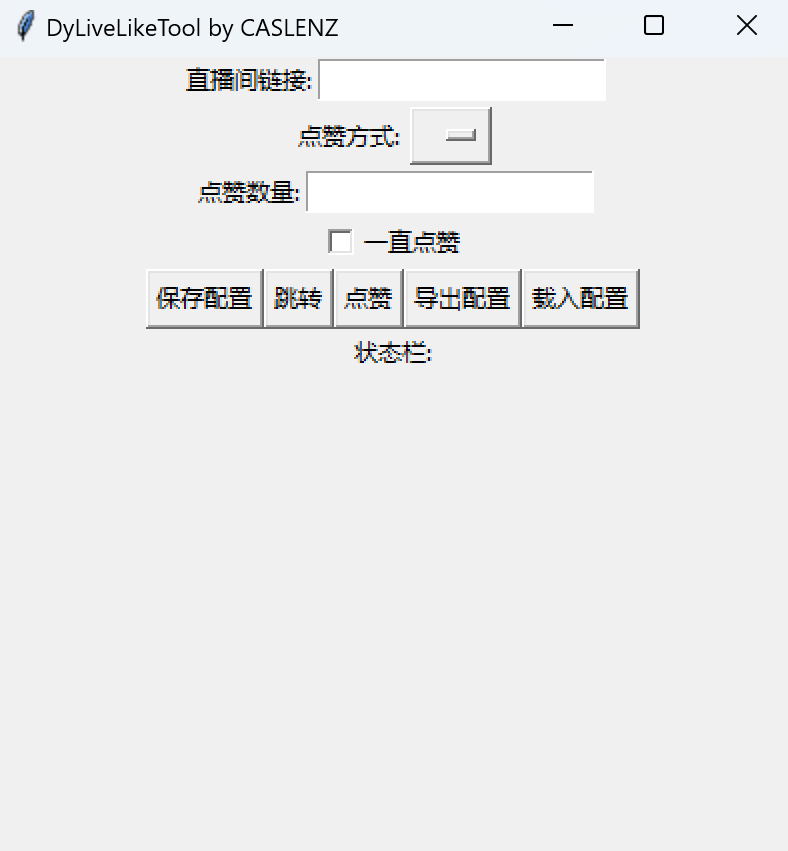
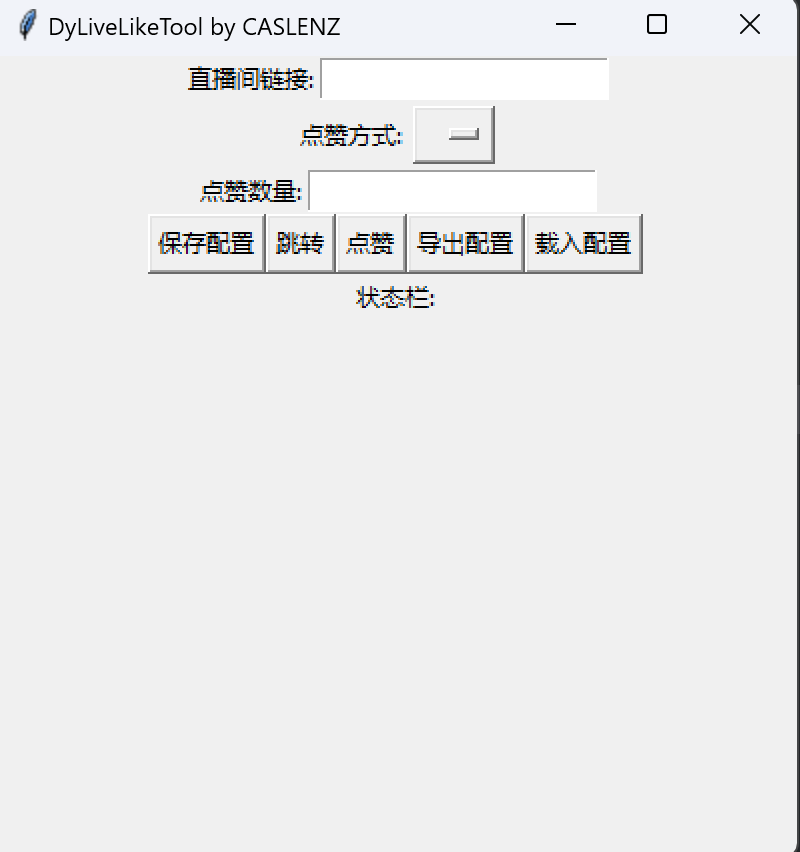
Update V1.0.1
1. Remove the "一直点赞" feature
2. Present all error codes as the reason for the error, making it easier for users to troubleshoot
3. Optimize the program.

diff --git a/DyLiveLikeTool.py b/DyLiveLikeTool.py
@@ -39,11 +39,6 @@ class DyLiveLikeTool:
         self.like_count_entry.pack(side=tk.LEFT)
         self.like_count_frame.pack()
 
-        # 一直点赞选项
-        self.continuous_like_var = tk.BooleanVar()
-        self.continuous_like_checkbox = tk.Checkbutton(self.root, text="一直点赞", variable=self.continuous_like_var, command=self.toggle_like_count_entry_state)
-        self.continuous_like_checkbox.pack()
-
         # 保存配置、跳转、点赞、导出配置、载入配置按钮在同一行
         self.button_frame = tk.Frame(self.root)
         self.save_config_button = tk.Button(self.button_frame, text="保存配置", command=self.save_config)
@@ -71,30 +66,23 @@ class DyLiveLikeTool:
 
         self.previous_mouse_position = None  # 用于记录上一次的鼠标位置
 
-    def toggle_like_count_entry_state(self):
-        if self.continuous_like_var.get():
-            self.like_count_entry.config(state='disabled')
-        else:
-            self.like_count_entry.config(state='normal')
-
     def save_config(self):
         link = self.link_entry.get()
-        if not (link.startswith("https://live.douyin.com/") or link.startswith("live.douyin.com")):
-            self.status_text.set("401 错误")
+        if not (link.startswith("https://live.douyin.com") or link.startswith("live.douyin.com") or link.startswith("HTTPS://LIVE.DOUYIN.COM") or link.startswith("LIVE.DOUYIN.COM")):
+            self.status_text.set("直播间链接格式不准确。")
             return
         try:
             count = int(self.like_count_entry.get())
             if count < 10 or count > 3000:
-                self.status_text.set("402 错误")
+                self.status_text.set("点赞数量应在 10~3000 之间。")
                 return
         except ValueError:
-            self.status_text.set("403 错误")
+            self.status_text.set("点赞数量应该是整数。")
             return
         self.status_text.set(f'''保存配置成功
         链接 - {link}
         点赞方式 - {self.like_method_var.get()}
-        点赞数量 - {count}
-        一直点赞 - {self.continuous_like_var.get()}''')
+        点赞数量 - {count}''')
 
     def jump(self):
         link = self.link_entry.get()
@@ -105,6 +93,9 @@ class DyLiveLikeTool:
             self.status_text.set("网页加载失败")
 
     def start_like(self):
+        if not self.check_saved_config():  # 检查是否保存了配置
+            messagebox.showwarning("提示", "请先保存配置！")
+            return
         self.link_entry.config(state='disabled')
         self.like_count_entry.config(state='disabled')
         self.like()
@@ -155,11 +146,20 @@ class DyLiveLikeTool:
         self.link_entry.config(state='normal')
         self.like_count_entry.config(state='normal')
 
+    def check_saved_config(self):
+        link = self.link_entry.get()
+        if not link:
+            return False
+        try:
+            int(self.like_count_entry.get())
+        except ValueError:
+            return False
+        return True
+
     def export_config(self):
         link = self.link_entry.get()
         method = self.like_method_var.get()
         count = self.like_count_entry.get()
-        still_like = self.continuous_like_var.get()
 
         live_name = tk.simpledialog.askstring("直播间名字", "请输入直播间名字:")
         if not live_name:
@@ -173,7 +173,7 @@ class DyLiveLikeTool:
 
         file_name = f"Config/{live_name}-{current_time}.czad"
         with open(file_name, 'w') as f:
-            f.write(f"Link\n{link}\nMethod\n{method}\nCount\n{count}\nStillLike\n{still_like}")
+            f.write(f"Link\n{link}\nMethod\n{method}\nCount\n{count}")
         self.status_text.set("保存成功")
 
     def load_config(self):
@@ -187,14 +187,12 @@ class DyLiveLikeTool:
             link = lines[1].strip()
             method = lines[3].strip()
             count = lines[5].strip()
-            still_like = lines[7].strip()
 
         self.link_entry.delete(0, tk.END)
         self.link_entry.insert(0, link)
         self.like_method_var.set(method)
         self.like_count_entry.delete(0, tk.END)
         self.like_count_entry.insert(0, count)
-        self.continuous_like_var.set(still_like == 'True')
 
         self.status_text.set("载入成功")
 

diff --git a/README.md b/README.md
@@ -1,6 +1,4 @@
-# DyLiveLikeTool  
-
-## 请注意：DyLiveLikeTool V1.0.0 版本目前出现 “一直点赞” 功能无法执行，正在排查并解决问题。2024年7月23日。  
+# DyLiveLikeTool
 
 <p align="center" class="shields">
   <a href="https://github.com/CaslenZ/DyLiveLikeTool/issues" style="text-decoration:none">
@@ -19,7 +17,7 @@
 </p>
 
 
-### 目录：[程序界面](#AppPage)、[依赖库](#DependentLibrary)、[使用方法](#Usage)、[注意事项](#Precautions)、[报错代码查询](#ErrorCodeQuery)、[免责声明](#Disclaimer)、[更新说明](#UpdateInstructions)、[许可证](#Licence)、[联系开发者](#ContactDeveloper)
+### 目录：[程序界面](#AppPage)、[依赖库](#DependentLibrary)、[使用方法](#Usage)、[注意事项](#Precautions)、[免责声明](#Disclaimer)、[更新说明](#UpdateInstructions)、[许可证](#Licence)、[联系开发者](#ContactDeveloper)
 
 ---
 <a id="AppPage"></a>
@@ -46,9 +44,8 @@
 3. 选择点赞方式
     - 鼠标左键：即使用鼠标左键进行点赞；
     - 键盘 Z 键：即使用键盘 Z 键进行点赞。键盘 Z 键是抖音直播间点赞快捷键；
-4. 输入点赞数量（数值应在 10-3000 之间）或选择一直点赞  
+4. 输入点赞数量（数值应在 10-3000 之间）  
     - 一段时间内，一个抖音账号只能连续点赞 3000 次，到 3-5 分钟左右可再次点赞。每个账号允许累计最大点赞数在 6000-9000 之间。
-    - “一直点赞” 需要用户先在 “点赞数量” 中输入 “10” 以确认打开一直点赞功能。
 5. 点击 “保存配置” 
 6. 点击 “跳转” ，程序会自动打开默认浏览器并跳转到指定直播间
 7. 点击 “点赞” ，程序会弹出提示窗口，然后在指定秒数内开始点赞
@@ -58,9 +55,9 @@
 8. 状态栏会显示任何报错、提示等，请留意观察
     - 报错代码查询请移步 [报错代码查询](#ErrorCodeQuery) 。
 9. 如果用户有经常需要自动化点赞的直播间，用户可以点击 “导出配置” 按钮，将配置固定保存在用户的电脑中
-    - 将直播间链接、点赞方式、点赞数量、一直点赞开关都填写、选择完整；
+    - 将直播间链接、点赞方式、点赞数量都填写、选择完整；
     - 点击 “导出配置” 按钮，程序会弹出窗口要求用户输入直播间名字，以便辨认配置适用对象；
-    - 填写完毕后，点击 “OK” ，程序会自动将配置文件保存在 ` 程序目录\dist\Config` 文件夹中，名称为 “直播间名字-月-日-时-分-秒.czad” ，用户可以将其移动、复制、删除，不建议用户手动修改文件内容。
+    - 填写完毕后，点击 “OK” ，程序会自动将配置文件保存在 ` 程序目录\dist\Config` 文件夹中，名称为 “直播间名字-月-日-时-分-秒.czad” ，用户可以将其移动、复制、删除，不建议用户手动修改文件内容。（若您是运行 Py 文件来运行程序，导出的数据将保存在 ` 程序目录\Config` 文件夹中。）  
 10. 当用户保存了配置文件后，用户可以点击 “载入配置” 载入这些配置
     - 点击 “载入配置” 后，程序会唤出系统窗口要求用户选择 .czad 文件，选择后点击 “完成” 即可载入。
 
@@ -70,24 +67,14 @@
 ## 注意事项
 ### 1. 直播间链接必须以 `https://live.douyin.com` 或 `live.douyin.com` 开头；
 ### 2. 点赞数量必须在 10~3000 范围内；
-### 3. “一直点赞” 需要用户先在 “点赞数量” 中输入 “10” 以确认打开一直点赞功能；
-### 4. 点击 “点赞” 后，程序会根据不同点赞方式弹出不同提示窗口，请注意观看提示；
-### 5. 提示观看完毕后，应迅速将弹窗关闭，然后在直播间窗口试点一次，防止程序执行动作后点赞无效（选择 “键盘 Z 键” 点赞， ****必须**** 执行此动作，否则点赞 ***必然*** 无效。）；
-### 6. 程序在执行点赞动作时，会偶现程序无响应，这是正常现象，不影响点赞动作。在点赞完毕或用户主动中断点赞后会恢复正常；
-### 7. 为方便用户在点赞过程中出现失误可以及时中断，当鼠标大幅度移动时点赞会自动停止，重新点击 “点赞” 按钮即可；
-### 8. 若程序重复出现鼠标大幅度移动提示，请重启程序；
-### 9. 每次修改任意参数都 ****必须**** 点击 “保存配置” 再执行点赞动作，否则修改的参数 **无效** ；
-### 10. “保存配置” 只会暂时将配置保存在程序当中，程序一旦关闭配置将永久删除。因此，如果用户要长期使用，建议用户 “导出配置” 。
-
----
-<a id="ErrorCodeQuery"></a>
----
-## 报错代码查询
-| 代码       | 原因           | 解决方法                                                       |
-|----------|--------------|------------------------------------------------------------|
-| 401      | 输入的直播间链接格式错误 | 直播间链接必须以 `https://live.douyin.com` 或 `live.douyin.com` 开头； |
-| 402      | 点赞数量超出限定范围   | 点赞数量范围为 10~3000 ，选择一直点赞需要在 “点赞数量” 中填入 10 ；                 |
-| 403      | 点赞数量格式错误     | 输入的点赞数量应为整数，且是计算机字符格式阿拉伯数字，不可输入中文、emoji等。                  |
+### 3. 点击 “点赞” 后，程序会根据不同点赞方式弹出不同提示窗口，请注意观看提示；
+### 4. 提示观看完毕后，应迅速将弹窗关闭，然后在直播间窗口试点一次，防止程序执行动作后点赞无效（选择 “键盘 Z 键” 点赞， ****必须**** 执行此动作，否则点赞 ***必然*** 无效。）；
+### 5. 程序在执行点赞动作时，会偶现程序无响应，这是正常现象，不影响点赞动作。在点赞完毕或用户主动中断点赞后会恢复正常；
+### 6. 为方便用户在点赞过程中出现失误可以及时中断，当鼠标大幅度移动时点赞会自动停止，重新点击 “点赞” 按钮即可；
+### 7. 若程序重复出现鼠标大幅度移动提示，请重启程序；
+### 8. 每次修改任意参数都 ****必须**** 点击 “保存配置” 再执行点赞动作，否则修改的参数 **无效** ；
+### 9. “保存配置” 只会暂时将配置保存在程序当中，程序一旦关闭配置将永久删除。因此，如果用户要长期使用，建议用户 “导出配置” ；
+### #1. “一直点赞” 功能因无实际作用已被删除，用户可以手动输入单次点赞上限值 3000 到 “点赞数量” 中以实现点赞最多。
 
 ---
 <a id="Disclaimer"></a>
@@ -108,9 +95,10 @@
 <a id="UpdateInstructions"></a>
 ---
 ## 更新说明
-| 版本号     | 发布类型    | 发布日期         | 内容   | 鸣谢 |
-|---------|---------|--------------|------|----|
-| V 1.0.0 | RELEASE | 　2024年7月21日  | 发布程序 |    |
+| 版本号     | 发布类型    | 发布日期        | 内容                                                                                                      | 鸣谢 |
+|---------|---------|-------------|---------------------------------------------------------------------------------------------------------|----|
+| V 1.0.0 | RELEASE | 　2024年7月21日 | 发布程序                                                                                                    |    |
+| V 1.0.1 | RELEASE | 　2024年7月23日 | 1. 删除 “一直点赞” 功能，若要实现此功能，请参阅 [注意事项](#Precautions) 第 #1 条； <br/> 2. 将报错代码全部呈现为报错原因，方便用户排查。 <br/> 3. 优化程序。 |    |
 
 ---
 <a id="Licence"></a>
